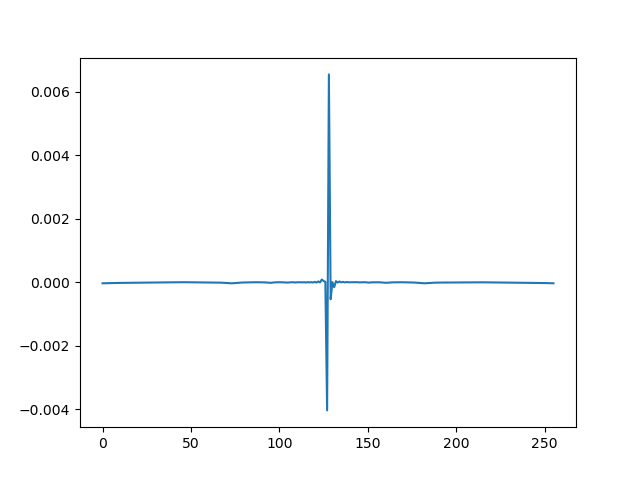
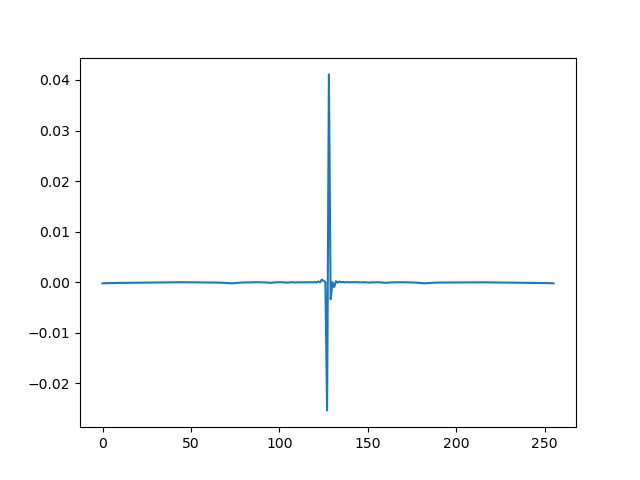
result plots

diff --git a/gg2_python/ct_test_example.py b/gg2_python/ct_test_example.py
@@ -23,13 +23,12 @@ def test_1():
 
 	# work out what the initial conditions should be
 	p = ct_phantom(material.name, 256, 3)
-	#s = source.photon('100kVp, 3mm Al')
 	# use fake source with only one frequency instead of real source
 	s = fake_source(source.mev, 0.07, method='ideal')
+	# The multiply by two here gives almost perfect reconstruction, but the reason behind which is unkown
 	y = scan_and_reconstruct(s, material, p, 0.01, 256)*2
 
 	# save some meaningful results
-	#save_draw(p, 'results', 'test_1_phantom')
 	save_draw(y, 'results', 'test_1_image', caxis=[0,max(map(max, y))])
 
 	# how to check whether these results are actually correct?
